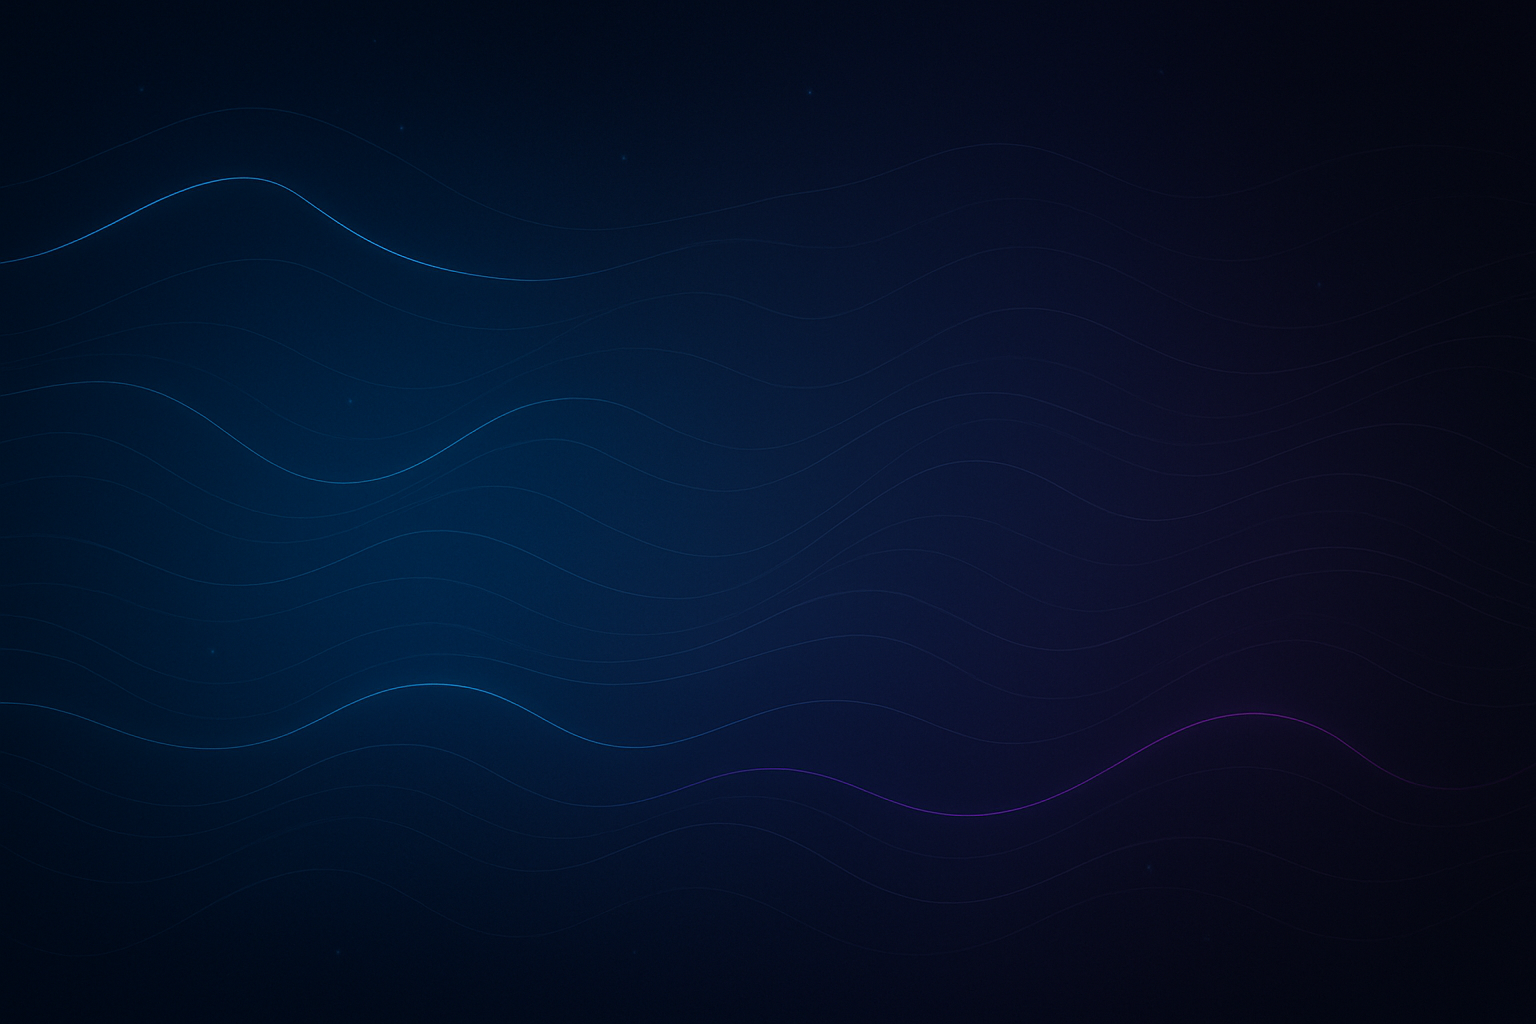
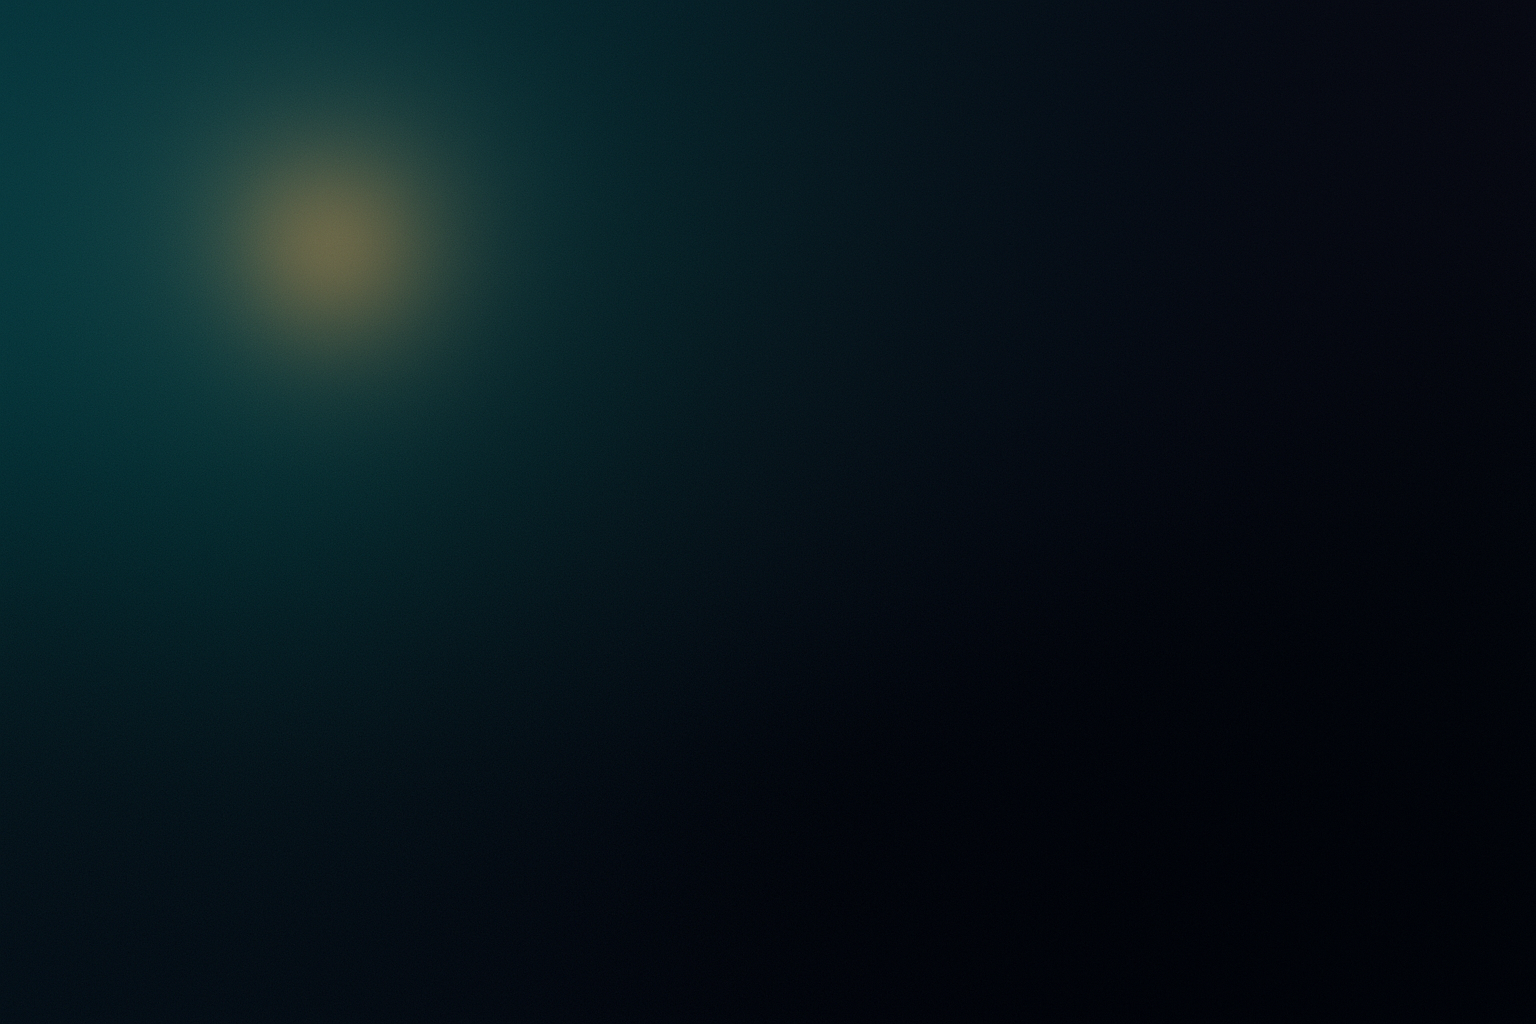
hero text done

diff --git a/brain_am/lib/screens/LandingPage.dart b/brain_am/lib/screens/LandingPage.dart
@@ -3,6 +3,7 @@ import 'package:brain.am/widgets/HeroText.dart';
 import 'package:brain.am/widgets/StartListeningButton.dart';
 import 'package:flutter/material.dart';
 import 'package:glassmorphism/glassmorphism.dart';
+import 'package:google_fonts/google_fonts.dart';
 
 class BrainAMHome extends StatelessWidget {
   const BrainAMHome({super.key});
@@ -12,57 +13,84 @@ class BrainAMHome extends StatelessWidget {
     return Scaffold(
       extendBodyBehindAppBar: true,
 
-      appBar: AppBar(
-        backgroundColor: Colors.transparent,
-        title: Text(
-          'brain.am',
-          style: TextStyle(color: const Color.fromARGB(146, 77, 77, 77)),
-        ),
-        centerTitle: false,
-      ),
-
       backgroundColor: const Color.fromARGB(0, 0, 0, 0),
       body: Stack(
         children: [
-      
           //backdrop
           Positioned.fill(
-            child: Image.asset('assets/images/1.png', fit: BoxFit.cover),
+            child: Image.asset(
+              'assets/images/background.png',
+              fit: BoxFit.cover,
+            ),
           ),
-      
-      
+
           //tint
           Positioned.fill(child: Container(color: Colors.black.withAlpha(150))),
-      
+
           Center(
-            child: Column(
-              
-              children: [
-                SizedBox(height: MediaQuery.of(context).size.height*0.1,),
-                Row(
-                  mainAxisAlignment: MainAxisAlignment.spaceEvenly,
-                  children: [
-                    const SizedBox(width: 30),
-      
-                    DemoImage(),
-      
-                    const SizedBox(width: 60),
-      
-                    Column(
-                      mainAxisAlignment: MainAxisAlignment.center,
-                      crossAxisAlignment: CrossAxisAlignment.center,
-      
-                      children: [
-                        HeroText(),
-                        const SizedBox(height: 30),
-                        StartListeningButton(),
-                      ],
+            child: GlassmorphicContainer(
+              width: MediaQuery.of(context).size.width * 0.8,
+              height: MediaQuery.of(context).size.height * 0.9,
+              borderRadius: 25,
+              linearGradient: LinearGradient(
+                begin: Alignment.centerLeft,
+                end: Alignment.topRight,
+                colors: [
+                  const Color.fromARGB(255, 132, 132, 132).withAlpha(20),
+                  const Color.fromARGB(255, 94, 94, 94).withAlpha(13),
+                ],
+              ),
+              border: 0.6,
+              blur: 0,
+              borderGradient: LinearGradient(
+                begin: Alignment.topCenter,
+                end: Alignment.bottomCenter,
+                colors: [
+                  const Color.fromARGB(255, 175, 175, 175).withAlpha(77),
+                  const Color.fromARGB(0, 0, 0, 0).withAlpha(26),
+                ],
+              ),
+              child: Column(
+                children: [
+                  Align(
+                    alignment: Alignment.centerLeft,
+                    child: Container(
+                      margin: EdgeInsets.symmetric(
+                        horizontal: MediaQuery.of(context).size.width * 0.03,
+                        vertical: MediaQuery.of(context).size.height * 0.019,
+                      ),
+                      child: Text(
+                        'brain.am',
+                        textAlign: TextAlign.start,
+                        style: GoogleFonts.poppins(
+                          fontWeight: FontWeight.w600,
+                          fontSize: 24,
+                          letterSpacing: 0.5, // adds spaciousness
+                          color: const Color.fromARGB(255, 255, 230, 202),
+                        ),
+                      ),
                     ),
-      
-                    const SizedBox(width: 20),
-                  ],
-                ),
-              ],
+                  ),
+
+                  SizedBox(height: 10),
+
+                  Row(
+                    children: [
+                      SizedBox(width: MediaQuery.of(context).size.width * 0.43),
+                      Column(
+                        children: [
+                          HeroText(text: "Sounds For \nEverything You Do"),
+                          SizedBox(height: 25),
+                          Align(
+                            alignment: Alignment.center,
+                            child: StartListeningButton(),
+                          ),
+                        ],
+                      ),
+                    ],
+                  ),
+                ],
+              ),
             ),
           ),
         ],

diff --git a/brain_am/lib/widgets/StartListeningButton.dart b/brain_am/lib/widgets/StartListeningButton.dart
@@ -1,50 +1,3 @@
-
-// import 'package:flutter/material.dart';
-// import 'package:glassmorphism/glassmorphism.dart';
-
-// class StartListeningButton extends StatelessWidget {
-//   const StartListeningButton({super.key});
-
-//   @override
-//   Widget build(BuildContext context) {
-//     return GestureDetector(
-//       onTap: (){},
-//       child: GlassmorphicContainer(
-//         height: MediaQuery.of(context).size.height*0.07,
-//         width: MediaQuery.of(context).size.width*0.14,
-//         // padding: EdgeInsets.symmetric(horizontal: MediaQuery.of(context).size.width) ,
-//         borderRadius: 40,
-//         blur: 20,
-//         alignment: Alignment.center,
-//         border: 0.7,
-//         linearGradient: LinearGradient(
-//           colors: [
-//             Colors.white.withAlpha(20),
-//             Colors.white.withAlpha(13),
-//           ],
-//           begin: Alignment.topLeft,
-//           end: Alignment.bottomRight,
-//         ),
-//         borderGradient: LinearGradient(
-//           colors: [
-//             Colors.white.withAlpha(77),
-//             Colors.white.withAlpha(26),
-//           ],
-//         ),
-//         child: Text(
-//           'START LISTENING',
-//           style: TextStyle(
-//             fontFamily: 'Lato',
-//             color: Color.fromARGB(255, 192, 192, 192),
-//             fontWeight: FontWeight.w400,
-//             fontSize: MediaQuery.of(context).size.height*0.02,
-//           ),
-//         ),
-//       ),
-//     );
-//   }
-// }
-
 import 'package:flutter/material.dart';
 import 'package:glassmorphism/glassmorphism.dart';
 
@@ -61,7 +14,6 @@ class _StartListeningButtonState extends State<StartListeningButton> {
   @override
   Widget build(BuildContext context) {
     final blurAmount = _isHovered ? 55.0 : 20.0;
-    final heightButton = _isHovered ? MediaQuery.of(context).size.height * 0.07 : MediaQuery.of(context).size.height * 0.07; 
     final widthButton = _isHovered ? MediaQuery.of(context).size.width * 0.143 : MediaQuery.of(context).size.width * 0.14; 
 
     return MouseRegion(
@@ -73,7 +25,7 @@ class _StartListeningButtonState extends State<StartListeningButton> {
           // your tap logic
         },
         child: GlassmorphicContainer(
-          height: heightButton,
+          height: MediaQuery.of(context).size.height * 0.07,
           width: widthButton,
           borderRadius: 40,
           blur: blurAmount,

diff --git a/brain_am/lib/widgets/HeroText.dart b/brain_am/lib/widgets/HeroText.dart
@@ -2,23 +2,26 @@
 import 'package:flutter/material.dart';
 
 class HeroText extends StatelessWidget {
-  const HeroText({super.key});
+  const HeroText({super.key, required this.text});
+
+  final String text;
 
   @override
   Widget build(BuildContext context) {
     return ShaderMask(
       shaderCallback: (bounds) {
         return const RadialGradient(
-          center: Alignment.topLeft,
+          center: Alignment.center,
           radius: 2,
-          colors: [Colors.white, Color.fromARGB(217, 114, 114, 114)],
+          colors: [Color.fromARGB(255, 255, 230, 172), Color.fromRGBO(255, 195, 152, 0.758)],
         ).createShader(bounds);
       },
       child: Text(
-        'Sounds for  \neverything',
+        text,
+        textAlign: TextAlign.start,
         style: TextStyle(
           fontFamily: 'Lato',
-          fontSize: MediaQuery.of(context).size.width*0.05,
+          fontSize: MediaQuery.of(context).size.width*0.034,
           fontWeight: FontWeight.bold,
           color: Colors.white,
            shadows: [
@@ -28,8 +31,14 @@ class HeroText extends StatelessWidget {
               color: Colors.black.withAlpha(64),
             ),
           ],
+          
         ),
       ),
     );
   }
 }
+
+// 217 114 114 114
+
+// Color.fromRGBO(255, 195, 152, 0.758)
+// Color.fromARGB(255, 255, 250, 223)

diff --git a/brain_am/lib/widgets/DemoImage.dart b/brain_am/lib/widgets/DemoImage.dart
@@ -6,20 +6,20 @@ class DemoImage extends StatelessWidget {
 
   @override
   Widget build(BuildContext context) {
-    return Container(
-      width: MediaQuery.of(context).size.width * 0.3,
-      height: MediaQuery.of(context).size.height * 0.8,
-      decoration: BoxDecoration(
-        color: const Color(0xFF12171D),
-        borderRadius: BorderRadius.circular(40),
-        boxShadow: [
-          BoxShadow(color: Colors.black.withAlpha(122), blurRadius: 30),
-        ],
-      ),
-      padding: const EdgeInsets.all(20),
-      child: Placeholder(
-        fallbackWidth: MediaQuery.of(context).size.width * 0.3,
-        fallbackHeight: MediaQuery.of(context).size.height * 0.2,
+    return ClipRRect(
+      borderRadius: BorderRadius.circular(20),
+      child: Container(
+        width: MediaQuery.of(context).size.width * 0.3,
+        height: MediaQuery.of(context).size.height * 0.8,
+        decoration: BoxDecoration(
+          color: const Color(0xFF12171D),
+          borderRadius: BorderRadius.circular(40),
+          boxShadow: [
+            BoxShadow(color: const Color.fromARGB(255, 181, 181, 181), blurRadius: 60),
+          ],
+        ),
+        padding: const EdgeInsets.all(0),
+        child: Image.asset('assets/images/demo.png', fit: BoxFit.cover,)
       ),
     );
   }

diff --git a/brain_am/macos/Flutter/GeneratedPluginRegistrant.swift b/brain_am/macos/Flutter/GeneratedPluginRegistrant.swift
@@ -5,8 +5,10 @@
 import FlutterMacOS
 import Foundation
 
+import path_provider_foundation
 import url_launcher_macos
 
 func RegisterGeneratedPlugins(registry: FlutterPluginRegistry) {
+  PathProviderPlugin.register(with: registry.registrar(forPlugin: "PathProviderPlugin"))
   UrlLauncherPlugin.register(with: registry.registrar(forPlugin: "UrlLauncherPlugin"))
 }
